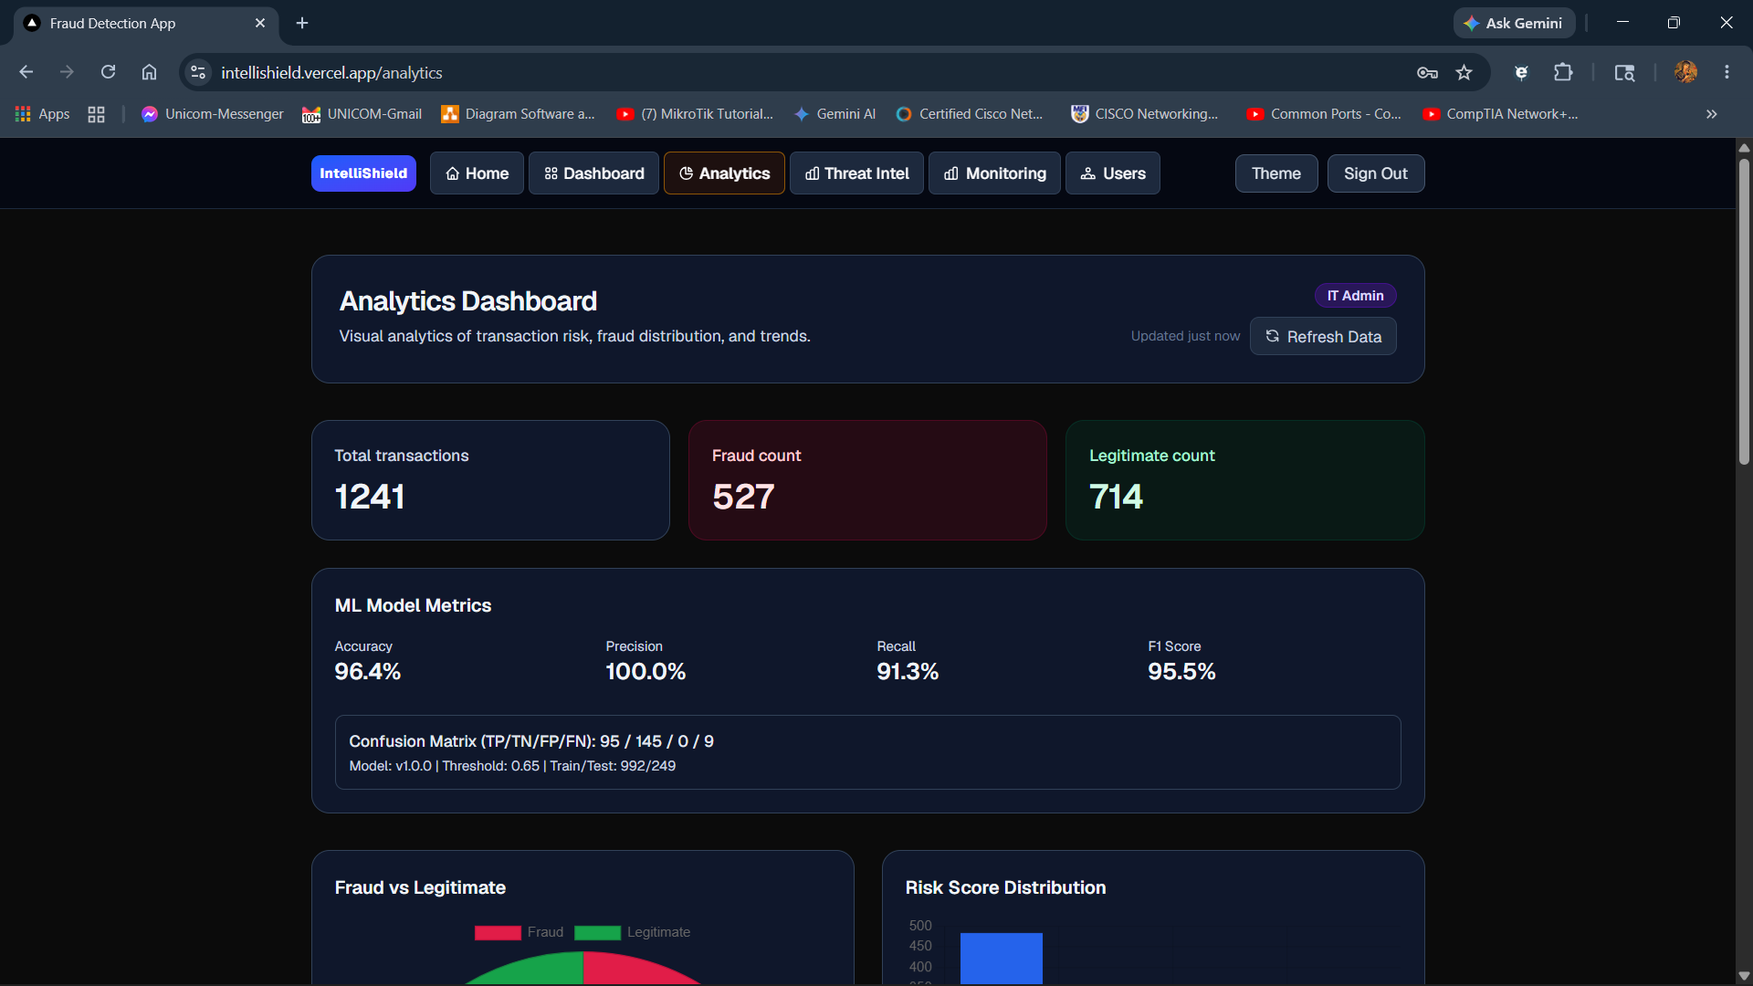
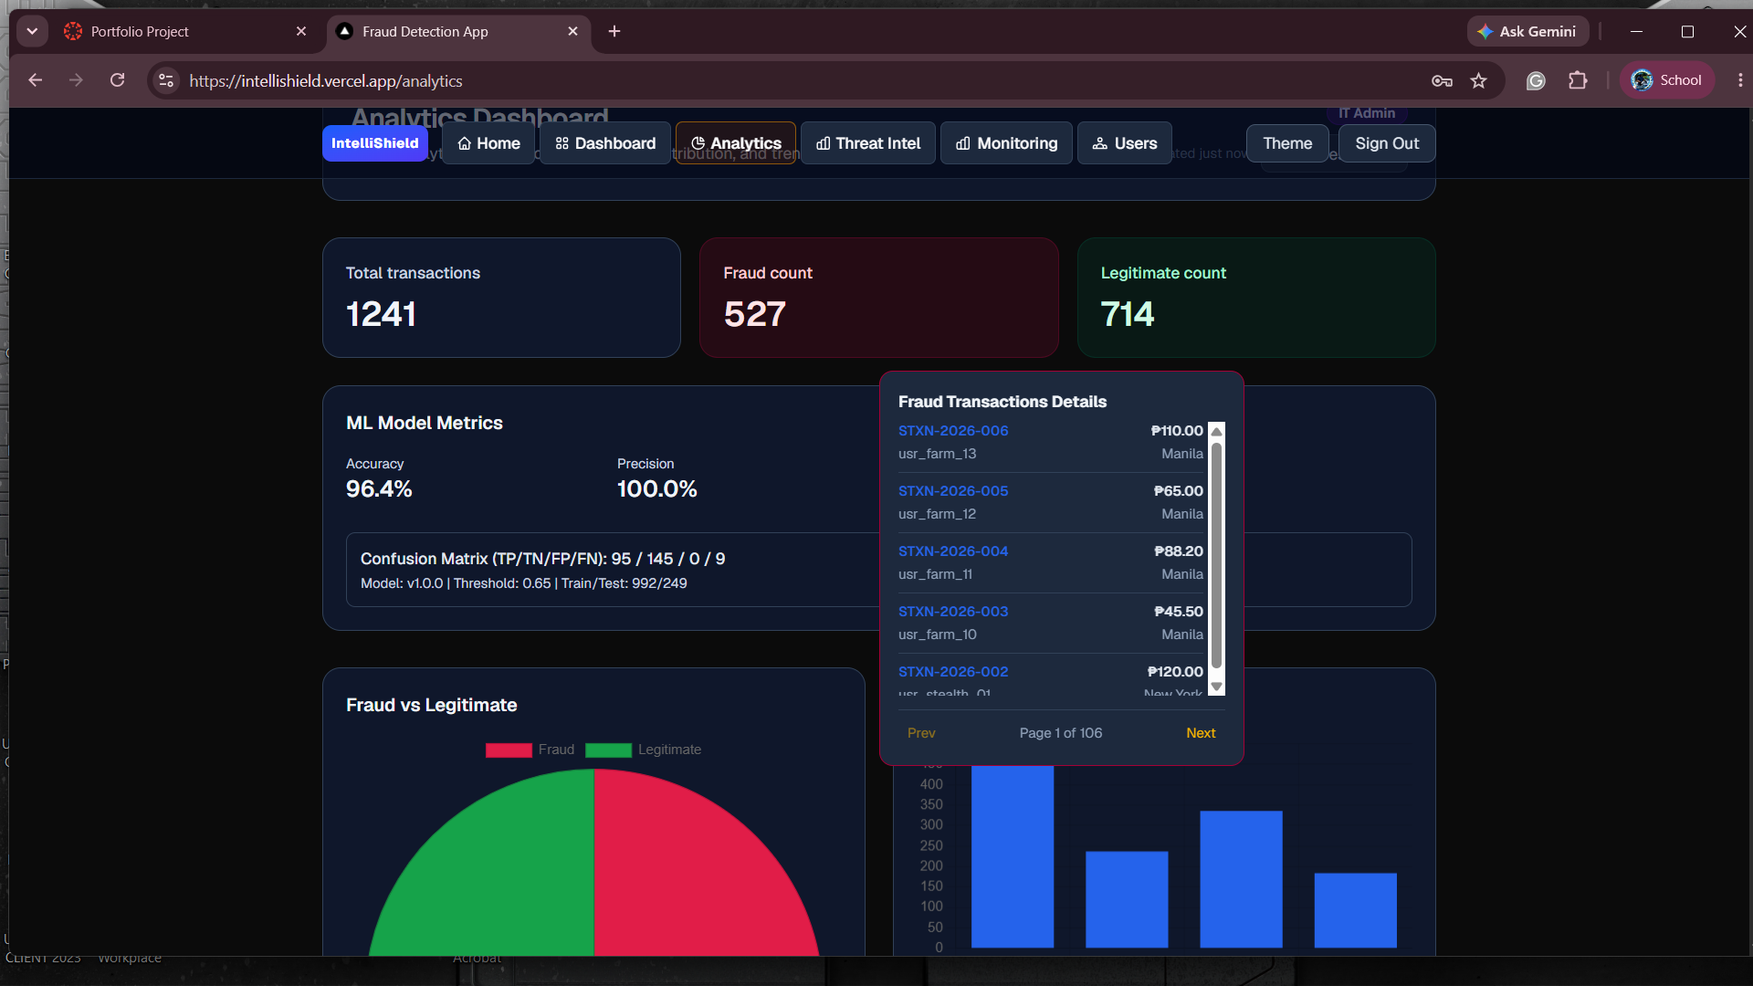
Add project details and application screenshots

diff --git a/projects.html b/projects.html
@@ -43,15 +43,45 @@
       <section class="projects-grid text-start" aria-label="Project list">
         <article class="project-card project-featured">
           <h2>KLIR: An IoT-Based Toilet Sanitation, Analytics, and Predictive Maintenance Management System</h2>
-          <h3>Introduction</h3>
-          <p>Restroom sanitation is an important part of facility management because restrooms are shared spaces that are used repeatedly throughout the day. In educational institutions, the condition of these facilities affects hygiene, user comfort, public health, and the overall perception of campus services. Traditional restroom management usually depends on manual flushing, fixed cleaning schedules, and visual inspection. These methods can work for basic operations, but they do not provide a clear picture of actual usage, water consumption, device condition, or the exact time when cleaning attention is needed.</p>
+          <h3>Overview</h3>
+          <p>KLIR combines automated restroom hardware with a web-based operations and administration hub. The system is designed to keep the toilet’s local operating sequence available while the cloud services handle device monitoring, configuration, maintenance assignments, analytics, alerts, reporting, and remote administration. The application is being developed as a group Capstone 1 project at St. Dominic College of Asia.</p>
           <h3>Objectives</h3>
           <ul class="project-objectives">
-            <li>Automate the toilet lid and sensor-triggered flush cycle, followed by UV-C disinfection.</li>
-            <li>Monitor usage, flush activity, water consumption, and device status through a cloud dashboard.</li>
-            <li>Use maintenance counters and alerts to identify servicing needs early and reduce downtime.</li>
+            <li>Monitor restroom device status, flush activity, water use, and sanitation cycles in real time.</li>
+            <li>Support device configuration, alerting, analytics, and report or compliance document generation.</li>
+            <li>Coordinate maintenance tasks and staff while allowing the toilet hardware to continue its local sequence if cloud connectivity is unavailable.</li>
           </ul>
-          <div class="project-gallery" aria-label="KLIR project screenshots">
+          <h3>Role &amp; Contributions</h3>
+          <ul class="project-objectives">
+            <li>Systems analysis and design, feasibility study, and cost analysis.</li>
+            <li>Designed charts and contributed to the application’s UI/UX.</li>
+            <li>Prepared project documentation.</li>
+          </ul>
+          <p class="project-team"><strong>Project team:</strong> Christian Ivan A. Los Baños, Dennis V. Carlos, James Carl V. Alvarez, Justine M. Lopez, and Maria Rollainne R. Lindog.</p>
+          <p class="project-status">Status: In development.</p>
+          <h3>Technologies &amp; Components</h3>
+          <dl class="project-stack" aria-label="KLIR technologies and components">
+            <div><dt>Frontend</dt><dd>Next.js (React), TypeScript, Tailwind CSS, DaisyUI</dd></div>
+            <div><dt>State and data</dt><dd>Redux Toolkit, SWR caching</dd></div>
+            <div><dt>Forms and validation</dt><dd>React Hook Form, Zod</dd></div>
+            <div><dt>Analytics</dt><dd>Recharts for telemetry and water-use visualizations</dd></div>
+            <div><dt>Documents and QR</dt><dd>React-PDF for compliance exports, QR code generation</dd></div>
+            <div><dt>Cloud and database</dt><dd>Google Firebase: Cloud Firestore, Firebase Auth, Cloud Storage</dd></div>
+            <div><dt>IoT telemetry</dt><dd>Standalone Node.js <code>mqtt-listener</code> service connecting MQTT to Firebase</dd></div>
+            <div><dt>Hosting and deployment</dt><dd>Vercel for the frontend, Railway for the 24/7 MQTT ingestion daemon</dd></div>
+            <div><dt>Testing</dt><dd>Jest for unit and integration tests, Playwright for end-to-end tests</dd></div>
+          </dl>
+          <div class="project-gallery project-gallery-wide" aria-label="KLIR web application screenshots">
+            <figure>
+              <img src="img/klir-web-dashboard.jpeg" alt="KLIR system overview dashboard with restroom sensor readings, device connection status, activity feed, and device controls" loading="lazy">
+              <figcaption>Operations dashboard</figcaption>
+            </figure>
+            <figure>
+              <img src="img/klir-web-analytics.jpeg" alt="KLIR restroom analytics dashboard with flush totals, water usage, UV cleaning rate, and charts" loading="lazy">
+              <figcaption>Restroom analytics</figcaption>
+            </figure>
+          </div>
+          <div class="project-gallery" aria-label="Additional KLIR project screenshots">
             <figure>
               <img src="img/klir-development.png" alt="KLIR development workspace showing the restroom maintenance notes component" loading="lazy">
               <figcaption>Application development</figcaption>
@@ -80,6 +110,24 @@
             <li>Provide QR code user reporting so visitors can quickly report restroom issues or request attention.</li>
             <li>Automate toilet lid opening and closing, sensor-triggered flushing, and a UV-C disinfection cycle after use.</li>
           </ul>
+          <h3>Role &amp; Contributions</h3>
+          <ul class="project-objectives">
+            <li>Developed the frontend and designed the UI/UX.</li>
+            <li>Supported testing and evaluation, and presented the product demo at the exhibit.</li>
+            <li>Modified the hardware design.</li>
+          </ul>
+          <p class="project-team"><strong>Project team:</strong> Christian Ivan A. Los Baños, Dennis V. Carlos, James Carl V. Alvarez, Justine M. Lopez, and Maria Rollainne R. Lindog.</p>
+          <p class="project-status">Status: In development.</p>
+          <h3>Technologies &amp; Components</h3>
+          <div class="project-tags project-tech-tags" aria-label="KLIR IoT technologies and components">
+            <span class="project-tag">ESP32 / ESP8266</span>
+            <span class="project-tag">Ultrasonic sensors</span>
+            <span class="project-tag">Water flow sensors</span>
+            <span class="project-tag">UV-C</span>
+            <span class="project-tag">Servo motors</span>
+            <span class="project-tag">Relays</span>
+            <span class="project-tag">MQTT</span>
+          </div>
           <div class="project-gallery" aria-label="KLIR IoT device and exhibit photos">
             <figure>
               <img src="img/klir-iot-prototype.jpeg" alt="KLIR smart toilet prototype with its electronics and automated lid" loading="lazy">
@@ -103,36 +151,173 @@
         </article>
 
         <article class="project-card project-featured">
-          <h2>IntelliShield Analytics</h2>
-          <p>A fraud detection and risk intelligence platform combining rule-based checks, behavioral profiling, velocity analysis, and machine learning to help analysts investigate suspicious transactions.</p>
+          <h2>KLIR Mobile Application</h2>
+          <p>Built as part of a group Capstone 1 project at St. Dominic College of Asia during the second semester of our third year, the KLIR mobile app supports restroom facility technicians in handling maintenance work. Technicians can review assigned tasks, track active work, complete checklists, attach before-and-after photos, add remarks, and review their task history. The app is part of a developing system that pairs local toilet hardware with cloud-based monitoring, reporting, alerts, task dispatch, and remote administration.</p>
           <h3>Objectives</h3>
           <ul class="project-objectives">
-            <li>Combine deterministic rules, behavioral correlation, and machine learning to detect both obvious and stealthy fraud patterns.</li>
-            <li>Make risk assessments more explainable and support analyst review, feedback, and model retraining.</li>
-            <li>Provide practical fraud-analysis workflows while keeping the system efficient within Firebase free-tier limits.</li>
+            <li>Give technicians a mobile inbox for assigned tasks, task status, and priority or location details.</li>
+            <li>Guide technicians through an active maintenance task and let them record checklist results, photos, and remarks.</li>
+            <li>Keep a history of completed work while the wider platform supports remote monitoring, alerts, analytics, and task management.</li>
           </ul>
-          <div class="project-gallery" aria-label="IntelliShield Analytics screenshots">
+          <h3>Role &amp; Contributions</h3>
+          <ul class="project-objectives">
+            <li>Helped develop and refine the project concept.</li>
+            <li>Prepared project documentation, built frontend features, and assisted with backend development.</li>
+          </ul>
+          <h3>Technologies &amp; Components</h3>
+          <dl class="project-stack" aria-label="KLIR Mobile Application technologies and components">
+            <div><dt>Mobile framework</dt><dd>React Native with Expo, TypeScript</dd></div>
+            <div><dt>UI and navigation</dt><dd>React Native Paper (Material Design), React Navigation with role-based tabs and stack routing</dd></div>
+            <div><dt>Cloud and database</dt><dd>Google Firebase: Native Auth, Firestore, Cloud Storage</dd></div>
+            <div><dt>Push notifications</dt><dd>Firebase Cloud Messaging (FCM) for task dispatch and leak alerts</dd></div>
+            <div><dt>Offline storage</dt><dd>Async Storage for offline-first task synchronization in low-signal areas</dd></div>
+            <div><dt>Camera and media</dt><dd>Photo proof capture, compression, and timestamp watermarking</dd></div>
+            <div><dt>Biometrics</dt><dd>Fingerprint and Face ID authentication for audit approvals</dd></div>
+            <div><dt>Reporting</dt><dd>In-app PDF generation and system share sheet integration</dd></div>
+            <div><dt>Build and testing</dt><dd>EAS for APK builds, Jest, and Maestro end-to-end testing</dd></div>
+          </dl>
+          <p class="project-team"><strong>Project team:</strong> Christian Ivan A. Los Baños, Dennis V. Carlos, James Carl V. Alvarez, Justine M. Lopez, and Maria Rollainne R. Lindog.</p>
+          <p class="project-status">Status: In development.</p>
+          <div class="project-gallery project-gallery-mobile" aria-label="KLIR Mobile Application screenshots">
             <figure>
-              <img src="img/intellishield-home.png" alt="IntelliShield Analytics home page introducing its fraud detection features" loading="lazy">
-              <figcaption>Fraud detection overview</figcaption>
+              <img src="img/klir-mobile-inbox.jpeg" alt="KLIR mobile inbox showing today's maintenance task counts and task queue" loading="lazy">
+              <figcaption>Technician task inbox</figcaption>
             </figure>
             <figure>
-              <img src="img/intellishield-analytics.png" alt="IntelliShield Analytics dashboard with transaction totals and machine learning metrics" loading="lazy">
-              <figcaption>Analytics dashboard</figcaption>
+              <img src="img/klir-mobile-active-task.jpeg" alt="KLIR mobile active task showing restroom location, maintenance instructions, and assigned technician" loading="lazy">
+              <figcaption>Active maintenance task</figcaption>
             </figure>
             <figure>
-              <img src="img/intellishield-threat-intel.png" alt="IntelliShield threat intelligence page showing network and device velocity charts" loading="lazy">
-              <figcaption>Threat intelligence</figcaption>
+              <img src="img/klir-mobile-completion.jpeg" alt="KLIR mobile completion summary with before-and-after photos, checklist, and technician remarks" loading="lazy">
+              <figcaption>Task completion and verification</figcaption>
+            </figure>
+            <figure>
+              <img src="img/klir-mobile-profile.jpeg" alt="KLIR mobile technician profile showing role, facility assignment, and shift controls" loading="lazy">
+              <figcaption>Technician profile</figcaption>
             </figure>
           </div>
-          <div class="project-tags" aria-label="Technologies">
+        </article>
+
+        <article class="project-card project-featured">
+          <h2>IntelliShield Analytics</h2>
+          <p>Developed as my individual Capstone 1 research project, IntelliShield is a fraud monitoring and risk intelligence platform for importing transaction data and reviewing suspicious activity. Administrators can upload CSV datasets, inspect individual transactions alongside rule risk scores and model fraud probabilities, and compare fraud and legitimate transaction totals. The application combines rule-based checks, behavioral profiling, device and IP velocity signals, Gaussian anomaly analysis, logistic regression, and a neural network to help surface both straightforward and less obvious fraud patterns.</p>
+          <p>Analytics views summarize model metrics, transaction distributions, fraud triggers, and model performance across training batches. Admins can retrain models with labeled Firestore records, subject to data requirements, while system monitoring tracks upload activity, errors, and accuracy over time. The audit trail records administrative and data-management events and supports date filtering, CSV/PDF export, and printing. Role-based access separates security analyst and administrator capabilities, with user management and audit logging supporting oversight.</p>
+          <h3>Objectives</h3>
+          <ul class="project-objectives">
+            <li>Import transaction datasets and combine rule-based risk checks with machine learning to flag suspicious activity.</li>
+            <li>Help analysts investigate patterns through transaction-level risk details, model metrics, threat charts, and batch comparisons.</li>
+            <li>Support labeled-data review and controlled model retraining while monitoring system errors, uploads, and model performance.</li>
+            <li>Provide auditable, role-based administration with exportable records for operational review and reporting.</li>
+          </ul>
+          <p class="project-status">Status: Further testing and system updates.</p>
+          <h3>Role &amp; Contributions</h3>
+          <ul class="project-objectives">
+            <li>Full-stack development, systems analysis, application design, and UI/UX.</li>
+            <li>Managed database design and usage, with a focus on Firebase free-tier optimization.</li>
+            <li>Designed role-based access control (RBAC) and audit modules.</li>
+            <li>Developed stealth-fraud detection logic.</li>
+          </ul>
+          <h3>Technologies &amp; Components</h3>
+          <div class="project-tags project-tech-tags" aria-label="IntelliShield technologies and components">
             <span class="project-tag">Next.js</span>
-            <span class="project-tag">Firebase Firestore</span>
+            <span class="project-tag">Firebase Authentication</span>
+            <span class="project-tag">Cloud Firestore</span>
             <span class="project-tag">TensorFlow.js</span>
             <span class="project-tag">Chart.js</span>
-            <span class="project-tag">Fraud detection</span>
+            <span class="project-tag">ML risk scoring</span>
+            <span class="project-tag">Velocity analysis</span>
+            <span class="project-tag">Behavioral profiling</span>
+            <span class="project-tag">RBAC &amp; audit logs</span>
+          </div>
+          <div class="project-gallery" aria-label="IntelliShield Analytics application screenshots">
+            <figure>
+              <img src="img/intellishield-dashboard.png" alt="IntelliShield dashboard with CSV upload, transaction totals, and model analytics" loading="lazy">
+              <figcaption>Fraud monitoring dashboard</figcaption>
+            </figure>
+            <figure>
+              <img src="img/intellishield-transactions.png" alt="IntelliShield transaction list with fraud scores and CSV or PDF report export controls" loading="lazy">
+              <figcaption>Transaction review and report export</figcaption>
+            </figure>
+            <figure>
+              <img src="img/intellishield-analytics.png" alt="IntelliShield analytics dashboard with transaction counts and model metrics" loading="lazy">
+              <figcaption>Fraud analytics</figcaption>
+            </figure>
+            <figure>
+              <img src="img/intellishield-threat-intel.png" alt="IntelliShield threat intelligence charts for device and IP velocity, fraud triggers, and anomaly detection" loading="lazy">
+              <figcaption>Threat intelligence</figcaption>
+            </figure>
+            <figure>
+              <img src="img/intellishield-monitoring.png" alt="IntelliShield system monitoring with upload totals, errors, model accuracy, and performance trends" loading="lazy">
+              <figcaption>System monitoring</figcaption>
+            </figure>
+            <figure>
+              <img src="img/intellishield-monitoring-history.png" alt="IntelliShield monitoring history charts and model performance records" loading="lazy">
+              <figcaption>Monitoring history</figcaption>
+            </figure>
+            <figure>
+              <img src="img/intellishield-audit-trail.png" alt="IntelliShield system audit trail showing recorded administrative actions" loading="lazy">
+              <figcaption>System audit trail</figcaption>
+            </figure>
+            <figure>
+              <img src="img/intellishield-retraining-reports.png" alt="IntelliShield model retraining controls and report export options" loading="lazy">
+              <figcaption>Model retraining and reports</figcaption>
+            </figure>
           </div>
           <a class="project-link-label" href="https://intellishield.vercel.app/" target="_blank" rel="noopener noreferrer">Open IntelliShield Analytics ↗</a>
+        </article>
+
+        <article class="project-card project-featured">
+          <h2>Unicom Technologies Website and Customer Portal</h2>
+          <p>A web application for Unicom Technologies, an IT systems supplier serving individuals and small to medium-sized businesses. The site brings its product catalog, systems integration and data center services, customer sign-in, and technical support information into one place.</p>
+          <h3>Application Highlights</h3>
+          <ul class="project-objectives">
+            <li>Introduce the company and its computer hardware, software, and IT solutions.</li>
+            <li>Present services including systems integration, data center installation, infrastructure assessment, and technical support.</li>
+            <li>Provide customer account access alongside support contact details and answers to common questions.</li>
+          </ul>
+          <p class="project-status">Status: In development.</p>
+          <h3>Role &amp; Contributions</h3>
+          <ul class="project-objectives">
+            <li>Systems design and development, UI/UX, and functional testing.</li>
+            <li>Modified the application based on testing and prepared project documentation.</li>
+          </ul>
+          <h3>Technologies &amp; Components</h3>
+          <div class="project-tags project-tech-tags" aria-label="Unicom Technologies project tools">
+            <span class="project-tag">Web application</span>
+            <span class="project-tag">Frontend</span>
+            <span class="project-tag">Backend</span>
+            <span class="project-tag">Databases</span>
+            <span class="project-tag">RBAC</span>
+          </div>
+          <div class="project-gallery" aria-label="Unicom Technologies application screenshots">
+            <figure>
+              <img src="img/unicom-home.png" alt="Unicom Technologies homepage introducing its electronics and IT solutions" loading="lazy">
+              <figcaption>Homepage</figcaption>
+            </figure>
+            <figure>
+              <img src="img/unicom-services.png" alt="Unicom Technologies services page listing systems integration and IT services" loading="lazy">
+              <figcaption>IT services</figcaption>
+            </figure>
+            <figure>
+              <img src="img/unicom-support.png" alt="Unicom Technologies technical support page with contact information and FAQs" loading="lazy">
+              <figcaption>Technical support</figcaption>
+            </figure>
+            <figure>
+              <img src="img/unicom-about.png" alt="Unicom Technologies about page with company background, mission, and values" loading="lazy">
+              <figcaption>Company profile</figcaption>
+            </figure>
+            <figure>
+              <img src="img/unicom-login.png" alt="Unicom Technologies customer login screen" loading="lazy">
+              <figcaption>Customer sign-in</figcaption>
+            </figure>
+          </div>
+          <div class="project-tags" aria-label="Application features">
+            <span class="project-tag">IT solutions</span>
+            <span class="project-tag">Product catalog</span>
+            <span class="project-tag">Customer portal</span>
+            <span class="project-tag">Technical support</span>
+          </div>
+          <a class="project-link-label" href="https://unicomtechnologies.vercel.app/" target="_blank" rel="noopener noreferrer">Open Unicom Technologies ↗</a>
         </article>
 
         <article class="project-card project-coming-soon">

diff --git a/style.css b/style.css
@@ -510,6 +510,65 @@ a.project-card:focus-visible {
   padding-top: 1.25rem;
 }
 
+.project-tech-tags {
+  margin-top: 0.35rem;
+  padding-top: 0;
+}
+
+.project-team,
+.project-status {
+  margin: 0.65rem 0 0;
+  font-size: 0.92rem;
+}
+
+.project-team strong {
+  color: var(--text);
+}
+
+.project-status {
+  color: var(--text-muted);
+}
+
+.project-gallery-mobile img {
+  aspect-ratio: 9 / 19;
+  object-fit: contain;
+  background: var(--page-bg);
+}
+
+.project-gallery-wide img {
+  aspect-ratio: 2.2 / 1;
+  object-fit: contain;
+  background: var(--page-bg);
+}
+
+.project-stack {
+  display: grid;
+  grid-template-columns: repeat(2, minmax(0, 1fr));
+  gap: 0.75rem 1rem;
+  margin: 0.35rem 0 0;
+}
+
+.project-stack > div {
+  padding: 0.75rem 0.9rem;
+  background: var(--tag-bg);
+  border: 1px solid var(--border);
+  border-radius: 12px;
+}
+
+.project-stack dt {
+  margin-bottom: 0.2rem;
+  color: var(--accent-green);
+  font-size: 0.84rem;
+  font-weight: 700;
+}
+
+.project-stack dd {
+  margin: 0;
+  color: var(--text-muted);
+  font-size: 0.9rem;
+  line-height: 1.55;
+}
+
 .project-tag {
   padding: 0.3rem 0.65rem;
   color: var(--text);
@@ -593,6 +652,10 @@ a.project-card:focus-visible {
 
   .project-gallery {
     grid-template-columns: 1fr;
+  }
+
+  .project-stack {
+    grid-template-columns: minmax(0, 1fr);
   }
 }
 

diff --git a/index.html b/index.html
@@ -58,7 +58,7 @@
     <footer class="feet">
       <div class="d-flex align-items-center justify-content-center">
         <p class="p2 m-0 me-2">Designed with passion</p>
-        <img src="img/ic_computer.gif" height="45" width="45">
+        <img src="img/cute.gif" height="60" width="72" alt="Animated bunny working at a laptop">
       </div>
     </footer>
   </div>
